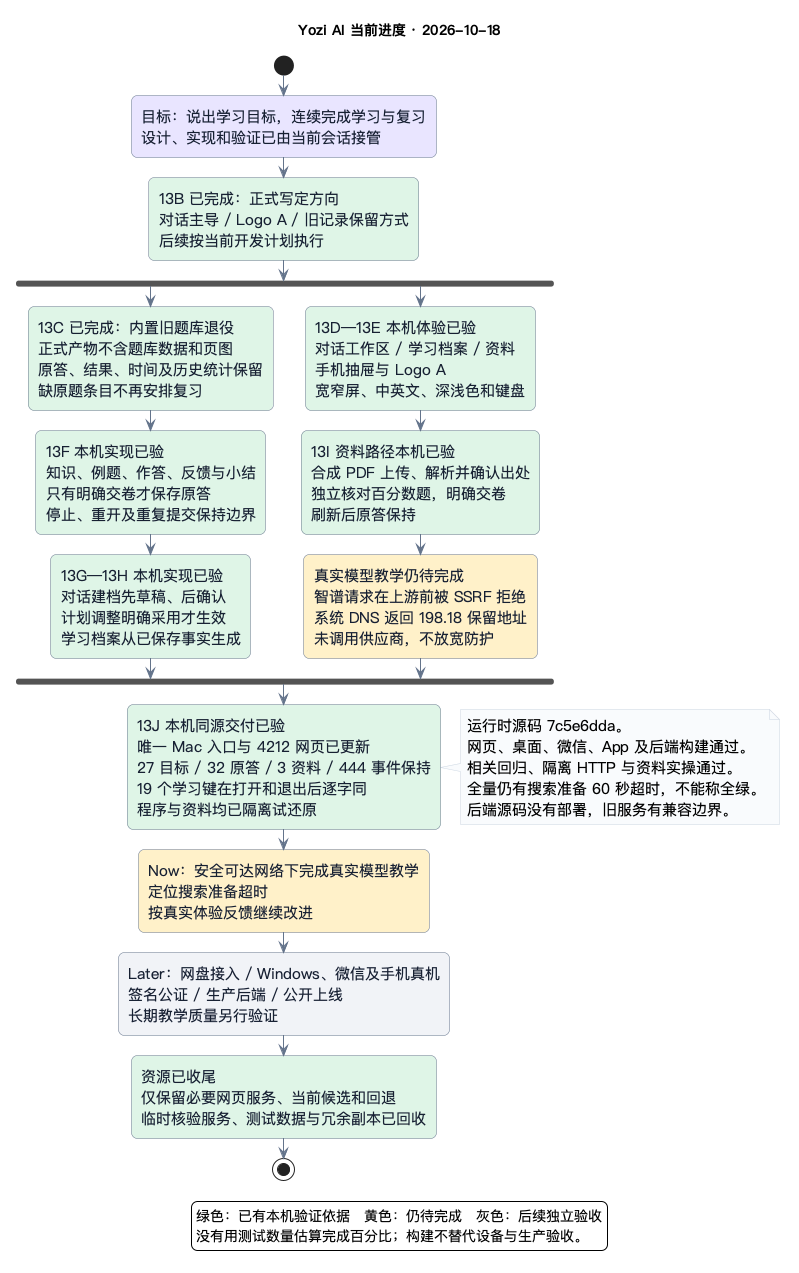
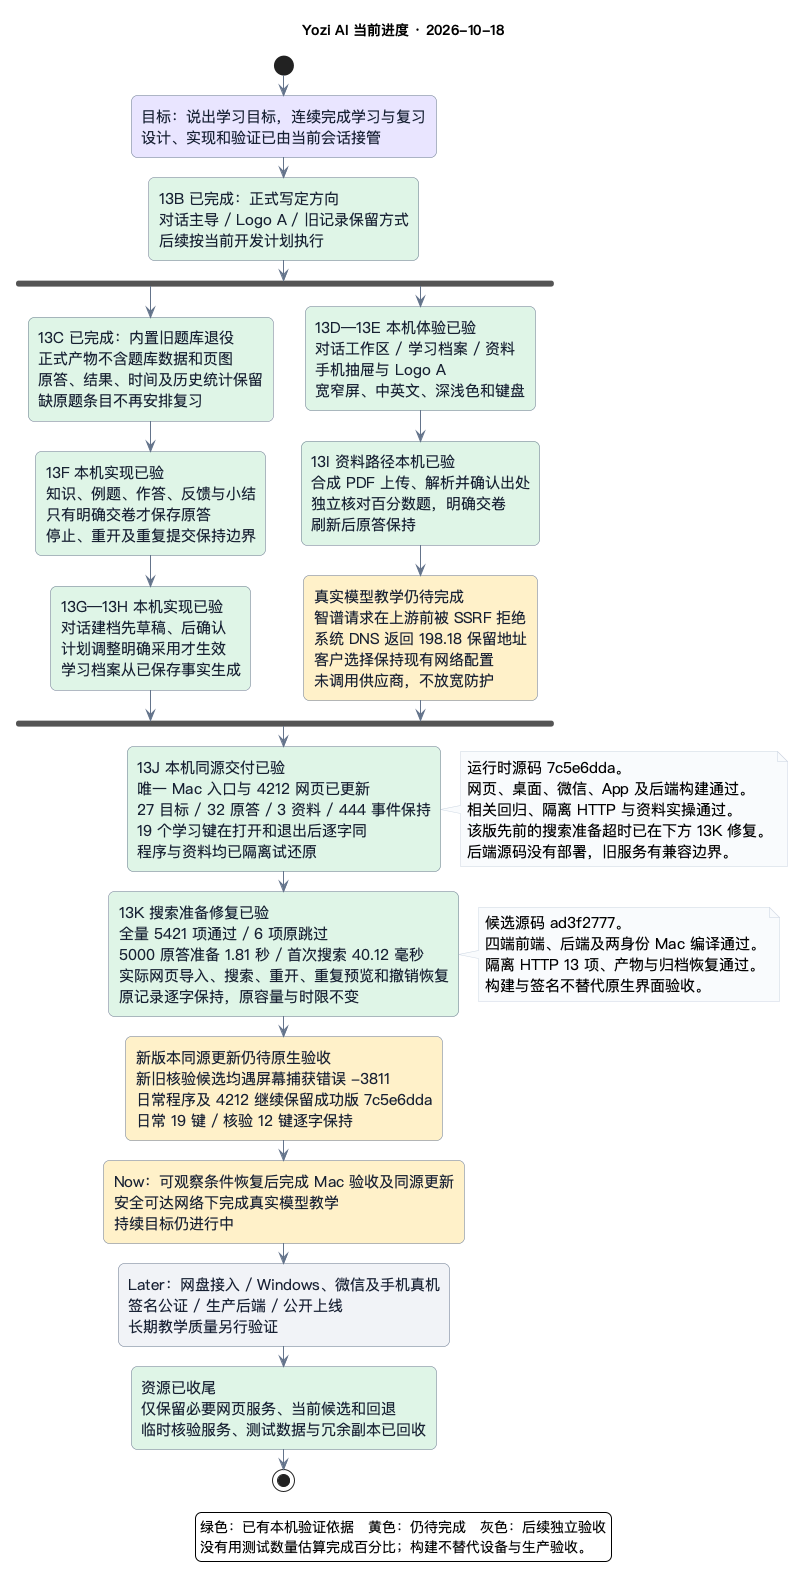
docs: record search acceptance and pending native and model checks

diff --git a/docs/08C-SCRIPTS-REFERENCE.md b/docs/08C-SCRIPTS-REFERENCE.md
@@ -12,6 +12,14 @@
 
 候选构建使用 `YOZI_ISOLATED_BUILD=1` 与 `UNI_OUTPUT_DIR=tmp/p13-candidate/<目标>`；保持4212和日常App，直至隔离核验后原子交付。后端编译至同一候选目录，未部署。`verify-learning-live.mjs --tasks album` 单独使用合成百分数资料验证知识/例题卡、精确核对、明确采用计划、订正和独立变式；最多一次请求，后端免费配置与平台付费关闭，不自动重试。客户已在当前会话授权持续使用现有免费配置与合成资料；每次仍记录账本与接收状态。当前首次请求因系统DNS返回198.18保留段被SSRF拒绝，账本not_called，不作为实际教学通过。
 
+### 阶段13K搜索候选（未交付）
+
+源码ad3f2777的搜索准备修复已通过本机全量5421项、实际隔离网页5000原答导入/搜索/重开/重复预览/撤销恢复及后端HTTP13项。H5、桌面前端、微信、App和后端隔离产物沿 `tmp/p13-candidate/`，H5入口index-BCcHOdR6.js、桌面前端index-Pv3VoV4A.js。没有更新日常Mac或4212，当前可用入口仍对应上文7c5e6dda。
+
+新核验归档为 `tmp/p13-candidate/native-qa.search.app.zip`，新日常候选为 `tmp/p13-candidate/daily-search-candidate.app.zip`。两者均已完整读回、实际解包、核对全部内容/模式/扩展属性、按回执恢复纳秒时间并通过严格签名；这只证明归档可恢复。镜像沿既定12A UUID适配，根Rust源码不改身份；后续恢复元数据使用 `verification.json` 的 `activeContinuation.nativeCandidates.qa.metadata` 或 `daily.metadata`，以能保持整数精度的工具读写mtimeNs。原7c5e6dda归档、12A成功回退和最新私人学习备份继续配对保留；以后更新先重新读取最新资料，不能用本轮前态覆盖未来记录。
+
+新旧核验程序的窗口读取均遇ScreenCaptureKit -3811，工具重置后仍失败；没有将编译或签名通过当作原生界面验收。日常19个学习键、核验12个学习键只读核对保持。客户明确保持现有Shadowrocket网络配置，真实模型尚未新增调用；安全网络与原生可观察条件恢复后，接续真实教学和同源交付，不重建已通过的候选或重复全量检查。
+
 微信DevTools旧题库冒烟路径已撤销，现脚本仅检查对话/档案导航且明确保留完整设备验收阻塞；不重置用户存储，导航通过不能解除发布门禁。
 
 本文记录命令的副作用、隔离构建约定和可选本机服务。各阶段的候选目录、测试数量和资源回收明细属于历史记录，见 [12](12-CHANGELOG.md) 与 git 历史（2026-10-10 精简前完整版本见提交 `77093a22`）。

diff --git a/docs/12-CHANGELOG.md b/docs/12-CHANGELOG.md
@@ -2,7 +2,11 @@
 
 ## 2026-10-18 搜索准备与真实教学接续（阶段13K，进行中）
 
-连续原答重放在每次提交后重复序列化完整历史，导致搜索测试的准备阶段受记录数与负载放大。现按原答/事件追加与对话、计划、题目片段的精确变化守同一容量上限，不改历史格式、判分、权限、幂等或失败批次合同。定向79项及本机全量5421项通过，6项既有跳过；原准备60秒与查询100毫秒目标保持。资料与程序仍沿原同源成功版，候选构建/本机更新继续执行。真实模型尚受当前Shadowrocket虚拟DNS影响，单域名真实地址例外等待客户选择，现有防护和供应商未调用状态保持。
+连续原答重放在每次提交后重复序列化完整历史，导致搜索测试的准备阶段受记录数与负载放大。源码ad3f2777按原答/事件追加与对话、计划、题目片段的精确变化守同一容量上限，不改历史格式、判分、权限、幂等或失败批次合同。定向79项及本机全量5421项通过，6项既有跳过；原准备60秒与查询100毫秒目标保持。5000原答独立准备1806.18毫秒，首次查询40.12毫秒、缓存最慢6.88毫秒；与前次不同负载，不计算加速倍数。
+
+实际隔离网页完成5000原答导入、搜索、普通重开、零新增重复预览及撤销恢复；原有1答/14事件和整个恢复状态保持。四端前端及后端构建、公开产物与退役无残留检查通过，微信主包1839505字节、媒体175891字节；实际隔离后端HTTP13项通过，新增模型调用0。两身份Mac候选已离线编译、严格签名及归档试还原，但窗口观察新旧对照均报ScreenCaptureKit -3811，原生实际路径和新版本同源交付仍待验。
+
+客户明确保持现有网络配置，未添加DNS例外或调整路由；真实教学继续受虚拟DNS阻断，现有防护和上游not_called状态保持。日常Mac及4212仍为7c5e6dda成功版本，日常19个学习键与核验身份12个学习键逐字保持；候选归档及恢复条件沿08C和本机现有回执，完整目标仍进行中。
 
 ## 2026-10-18 对话辅导本机交付（阶段13C–13J）
 
